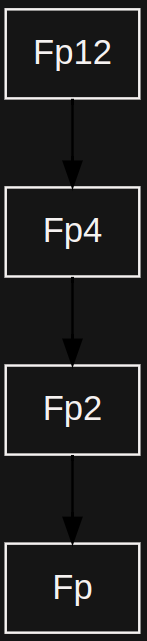
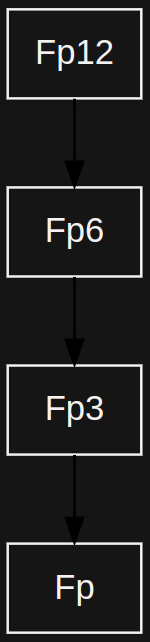
GitBook: [#52] No subject

diff --git a/docs/modules/cpp/algebra/manual/matrix.md b/docs/modules/cpp/algebra/manual/matrix.md
@@ -6,7 +6,24 @@
 
 Matrix is defined under the namespace `nil::crypto3::algebra` A matrix can be instantiated as
 
-```
+```cpp
 constexpr matrix<double, 3, 3> m1 = {1., 2., 3., 4., 5., 6., 7., 8., 9.};
 constexpr matrix m2 = {{{1., 2.}}};
 ```
+
+## Operations
+
+### Addition
+
+### In-Equiality/Equality
+
+### Multiplication
+
+### Division
+
+## Utility Functions (TO CHECK)
+
+### Generate
+
+### Column
+

diff --git a/docs/modules/cpp/algebra/implementation/field.md b/docs/modules/cpp/algebra/implementation/field.md
@@ -29,11 +29,11 @@ There are also the following towers implemented:
 
 Fp -> Fp3 -> Fp6 -> Fp12;
 
-![](../../../../.gitbook/assets/image.png)
+![](<../../../../.gitbook/assets/image (1).png>)
 
 Fp -> Fp2 -> Fp4 -> Fp12;
 
-![](<../../../../.gitbook/assets/image (1).png>)
+![](<../../../../.gitbook/assets/image (1) (2).png>)
 
 ### Field Parameters  <a href="#field_parameters" id="field_parameters"></a>
 
